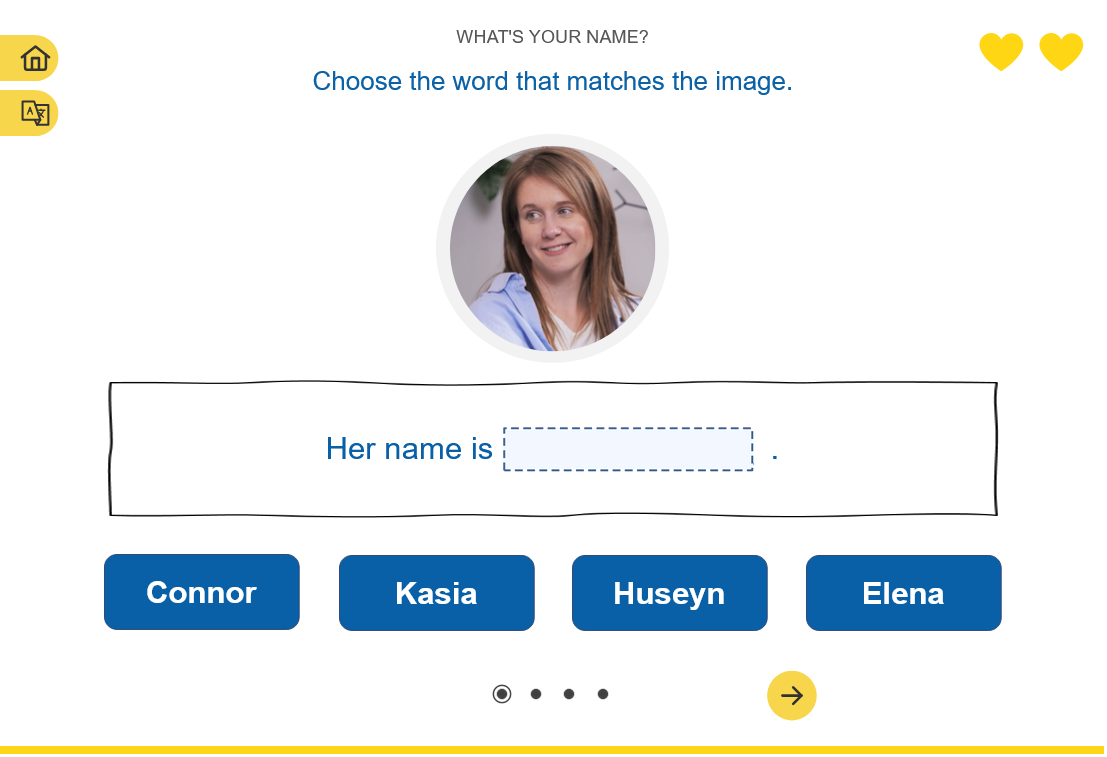
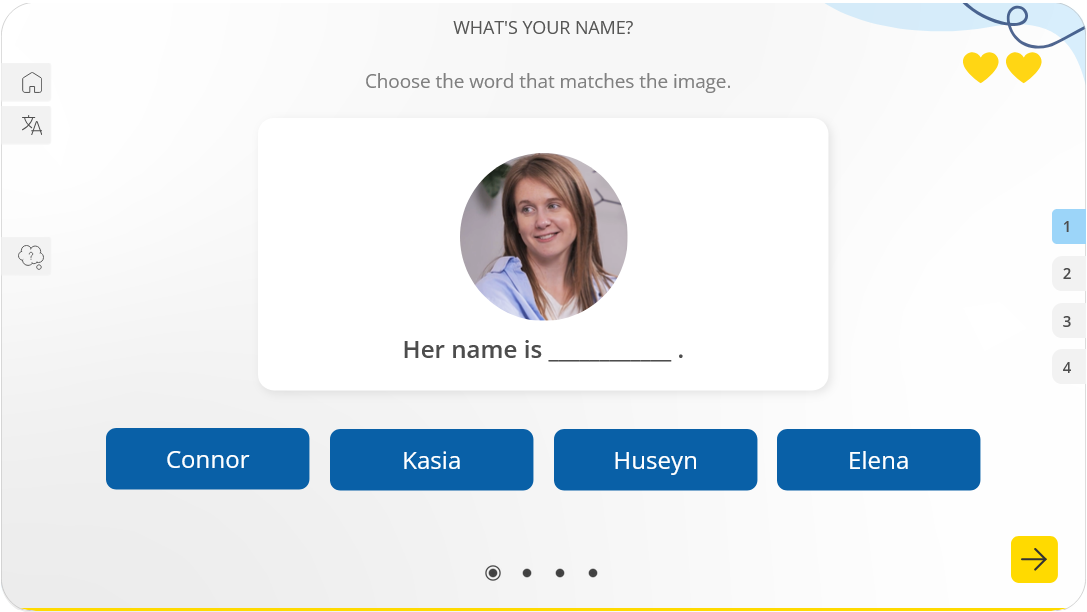
Refine A1 reshuffle panel: wording and image order
Say 'improved keyboard-only accessibility' and drop the first panel
image so before/after pairs sit side by side, followed by the tutorial.

Claude-Session: https://claude.ai/code/session_01KsXNKqrxfLcVhMcj9pCuSB

diff --git a/index.html b/index.html
@@ -282,16 +282,15 @@
             <p><strong>Tools:</strong> Articulate Storyline, SCORM delivery on EU Academy.</p>
             <p><strong>Scope:</strong> A1 modules 1–3, each split from one 1-hour SCORM into four 15-minute parts; 29 languages.</p>
             <p>Usability tests and learner data showed that the first A1 modules, the most used in the catalogue, would work better as shorter units. I led the redesign: analysed the existing content in 29 languages to find what could fit a single Storyline template and to map language-specific exercises; defined how each activity would be migrated technically from the old template to the new one; built the English version of each part to prove the process; and wrote illustrated, step-by-step adaptation guidelines for the external instructional designers producing the other languages.</p>
-            <p>The new parts bring an updated look and feel, revised navigation, keyboard-only accessibility, and a short tutorial on navigation and accessibility features. End-of-module quiz completion for the first module rose by 24 to 42 percentage points in the three languages measured.</p>
+            <p>The new parts bring an updated look and feel, revised navigation, improved keyboard-only accessibility, and a short tutorial on navigation and accessibility features. End-of-module quiz completion for the first module rose by 24 to 42 percentage points in the three languages measured.</p>
             <div class="info-images">
-              <img src="images/sample-9a.png" alt="Before: original 1-hour module menu" onerror="this.style.display='none'" />
-              <img src="images/sample-9b.png" alt="Before: word-matching activity" onerror="this.style.display='none'" />
-              <img src="images/sample-9c.png" alt="After: word-matching activity in the new template" onerror="this.style.display='none'" />
-              <img src="images/sample-9d.png" alt="Before: sentence reordering activity" onerror="this.style.display='none'" />
-              <img src="images/sample-9e.png" alt="After: sentence reordering with keyboard shortcuts" onerror="this.style.display='none'" />
-              <img src="images/sample-9f.png" alt="Onboarding tutorial: navigation" onerror="this.style.display='none'" />
-              <img src="images/sample-9g.png" alt="Onboarding tutorial: translating instructions" onerror="this.style.display='none'" />
-              <img src="images/sample-9h.png" alt="Onboarding tutorial: replaying audio and text" onerror="this.style.display='none'" />
+              <img src="images/sample-9a.png" alt="Before: word-matching activity" onerror="this.style.display='none'" />
+              <img src="images/sample-9b.png" alt="After: word-matching activity in the new template" onerror="this.style.display='none'" />
+              <img src="images/sample-9c.png" alt="Before: sentence reordering activity" onerror="this.style.display='none'" />
+              <img src="images/sample-9d.png" alt="After: sentence reordering with keyboard shortcuts" onerror="this.style.display='none'" />
+              <img src="images/sample-9e.png" alt="Onboarding tutorial: navigation" onerror="this.style.display='none'" />
+              <img src="images/sample-9f.png" alt="Onboarding tutorial: translating instructions" onerror="this.style.display='none'" />
+              <img src="images/sample-9g.png" alt="Onboarding tutorial: replaying audio and text" onerror="this.style.display='none'" />
             </div>
           </div>
         </div>
